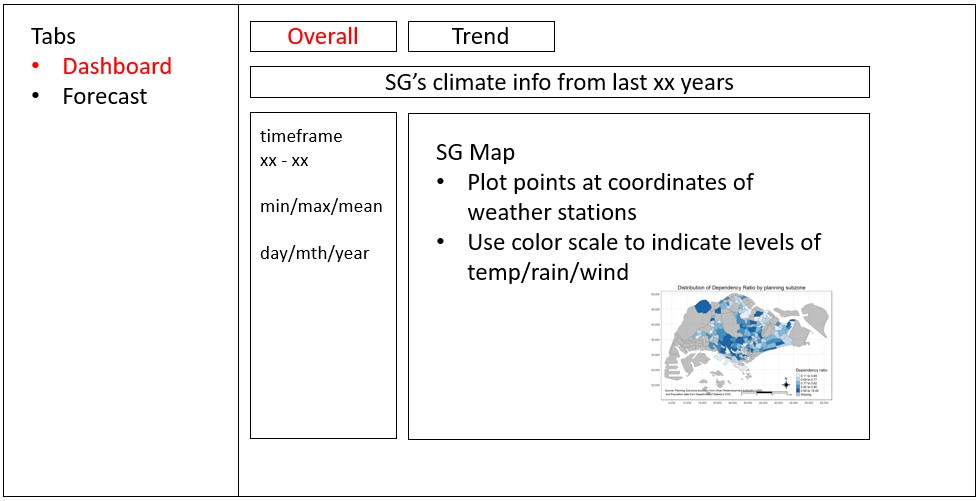
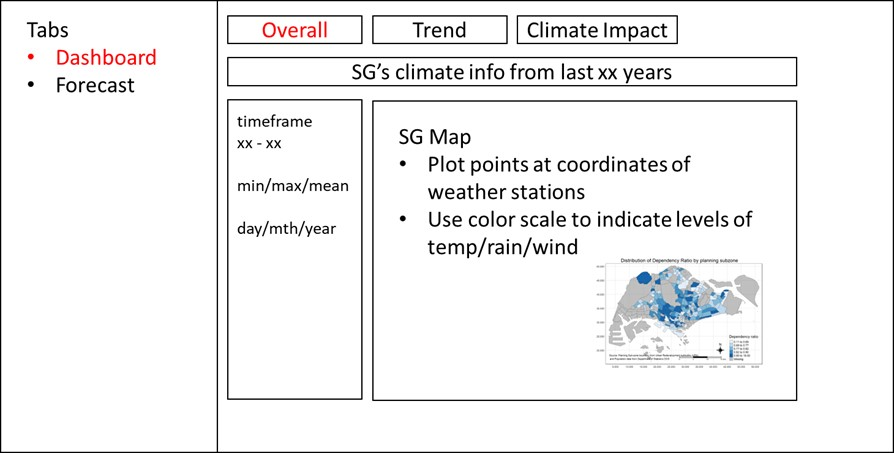
Edited the methodology section, and modified the shinyapp design

Changed region(s): [[0.0, 0.0, 1.0, 1.0]]

diff --git a/_site/Proposal/Proposal.html b/_site/Proposal/Proposal.html
@@ -138,7 +138,7 @@ ul.task-list li input[type="checkbox"] {
     <div>
     <div class="quarto-title-meta-heading">Modified</div>
     <div class="quarto-title-meta-contents">
-      <p class="date-modified">February 9, 2024</p>
+      <p class="date-modified">February 10, 2024</p>
     </div>
   </div>
     
@@ -185,17 +185,34 @@ ul.task-list li input[type="checkbox"] {
 </section>
 <section id="methodology" class="level1">
 <h1>Methodology</h1>
-<section id="eda" class="level2">
-<h2 data-anchor-id="eda">EDA</h2>
-<p>We will be using data visualizations to explore trends in our weather and temperature for the past few decades</p>
+<section id="exploratory-data-analysis-eda" class="level2">
+<h2 data-anchor-id="exploratory-data-analysis-eda">Exploratory Data Analysis (EDA)</h2>
+<p>As a standard procedure of a data analytics project, EDA will be performed to understand the trend and patterns in the data before developing our forecast models.</p>
+<ul>
+<li><p>Understanding the weather time series data (rainfall, temperature, relative humidity and wind) by decomposing them to study their trend, seasonality and stationarity.</p></li>
+<li><p>Geographical analysis to study the differences of weather by region and planning area in Singapore.</p></li>
+<li><p>Correlation analysis to study the association among rainfall, temperature, relative humidity and wind.</p></li>
+<li><p>Correlation analysis to study the association among rainfall, temperature and dengue cases.</p></li>
+</ul>
 </section>
-<section id="forecast" class="level2">
-<h2 data-anchor-id="forecast">Forecast</h2>
-<p>We will be using time-series analysis to forecast weather changes in the near future by regions.</p>
+<section id="forecast-model-development" class="level2">
+<h2 data-anchor-id="forecast-model-development">Forecast Model Development</h2>
+<p>Different time series forecast models will be attempted to compare their performance, which are:</p>
+<ul>
+<li><p><strong>Simple moving average method</strong> which is a part of the simple time series forecast model family. It will act as the reference model to be compared with more advanced models.</p></li>
+<li><p><strong>Holt Winter’s method</strong> which employs exponential smoothing techniques that applies a higher weightage to the more recent data. The underlying assumption here is that the weather in the recent years would be more valuable in forecasting the future weather.</p></li>
+<li><p><strong>Seasonal auto regressive integrated moving average (SARIMA)</strong> which extends auto regressive integrated moving average (ARIMA) methods by adding the seasonality component. The underlying assumption here is that weather exhibits seasonality trend. Thus, SARIMA method would be more suitable for weather forecasting.</p></li>
+</ul>
 </section>
-<section id="cda" class="level2">
-<h2 data-anchor-id="cda">CDA</h2>
-<p>We will be using CDA to evalute our predictions via significance, sensitivity analysis, and confidence.</p>
+<section id="confirmatory-data-analysis-cda" class="level2">
+<h2 data-anchor-id="confirmatory-data-analysis-cda">Confirmatory Data Analysis (CDA)</h2>
+<p>To evaluate the models’ performance and identify the champion model after developing the above-mentioned models, we’ll use the following two commonly used performance metrics:</p>
+<ul>
+<li><p><strong>Root mean squared error (RMSE)</strong> which is the square root of mean squared error (MSE). It measures how far the forecasted values are deviated from the actual measurements.</p>
+<p><img src="Formula - RMSE.png" class="img-fluid"></p></li>
+<li><p><strong>Mean absolute percentage error (MAPE)</strong> which measures the percentage error against the actual measurements. It’s largely adopted because it’s normalized in percentage form, which many people find it easier to interpret and compare among different methods.</p>
+<p><img src="Formula - MAPE.png" class="img-fluid"></p></li>
+</ul>
 </section>
 </section>
 <section id="shinyapp-layout" class="level1">
@@ -209,7 +226,7 @@ ul.task-list li input[type="checkbox"] {
 <h2 data-anchor-id="dashboard">Dashboard</h2>
 <section id="overall" class="level3">
 <h3 data-anchor-id="overall">Overall</h3>
-<p>The dashboard layout is further divided into 3 (or 4) sections; Temperature, Rainfall, Wind (and humidity, which may be a composite factor of temperature and rain).</p>
+<p>The dashboard layout is further divided into 3 (or 4) sections; Temperature, Rainfall, Wind (and relative humidity, which may be a composite factor of temperature and rain).</p>
 <p>We intend for users to be able to filter by multiple levels as indicated below:</p>
 <ul>
 <li><p>By time period – slider bar</p></li>
@@ -225,24 +242,29 @@ ul.task-list li input[type="checkbox"] {
 </section>
 <section id="trend" class="level3">
 <h3 data-anchor-id="trend">Trend</h3>
-<p>To give users a clearer view of changes over time, the Trend tab utilizes a parallel coordinate map that shows temp/rain/wind against time. Here, each line (and color) represents a different weather station. We can also added the vertical histograms that shows the distribution as well as outlier points.</p>
+<p>To give users a clearer view of changes over time, the Trend tab utilizes a parallel coordinate map that shows temp/rain/wind against time. Here, each line (and color) represents a different weather station. We can also added the vertical histograms that shows the distribution as well as the outliers.</p>
 <div class="quarto-figure quarto-figure-center">
 <figure class="figure">
 <p><img src="Dashboard Trend.jpg" class="img-fluid figure-img"></p>
 </figure>
 </div>
 </section>
+<section id="climate-impact" class="level3">
+<h3 data-anchor-id="climate-impact">Climate Impact</h3>
+<p>In this section, the users will be able to visualize the correlation between temp/rain and dengue cases. Those who are in the public health sector can make use of this information to develop better strategies to prevent dengue outbreak.</p>
+<p><img src="Dashboard Climate Impact.jpg" class="img-fluid"></p>
 </section>
-<section id="forecast-1" class="level2">
-<h2 data-anchor-id="forecast-1">Forecast</h2>
+</section>
+<section id="forecast" class="level2">
+<h2 data-anchor-id="forecast">Forecast</h2>
 <p>In the forecast tab, users will be able to run models to predict temp/rain/wind changes.</p>
-<p>Here, we plan to use ARIMA forecasting methods. The user will be able to choose from a selection of parameters before running the model.</p>
+<p>Here, the users will be able to choose from a selection of the models mentioned in the previous section, and define the parameters associated with that model before running the model.</p>
 <div class="quarto-figure quarto-figure-center">
 <figure class="figure">
 <p><img src="Forecast.jpg" class="img-fluid figure-img"></p>
 </figure>
 </div>
-<p>Finally, we will include a tab for CDA to validate our results.</p>
+<p>Finally, we will include a tab for CDA to evaluate the performance of the trained model.</p>
 </section>
 </section>
 <section id="project-management-and-timeline" class="level1">

diff --git a/_site/index.html b/_site/index.html
@@ -226,7 +226,7 @@ Our Works
 </div>
 <div id="listing-sample-listings" class="quarto-listing quarto-listing-container-grid">
 <div class="list grid quarto-listing-cols-3">
-<div class="g-col-1" data-index="0" data-listing-file-modified-sort="1707381723654" data-listing-reading-time-sort="1">
+<div class="g-col-1" data-index="0" data-listing-file-modified-sort="1707546970298" data-listing-reading-time-sort="1">
 <a href="./Poster/Poster.html" class="quarto-grid-link">
 <div class="quarto-grid-item card h-100 card-left">
 <p class="card-img-top"><img src="images\bugcat wip.gif" style="height: 150px;"  class="thumbnail-image card-img"/></p>
@@ -246,7 +246,7 @@ Poster
 </div>
 </a>
 </div>
-<div class="g-col-1" data-index="1" data-listing-date-sort="1707408000000" data-listing-file-modified-sort="1707460107744" data-listing-date-modified-sort="1707460107000" data-listing-reading-time-sort="4">
+<div class="g-col-1" data-index="1" data-listing-date-sort="1707408000000" data-listing-file-modified-sort="1707549204752" data-listing-date-modified-sort="1707549204000" data-listing-reading-time-sort="5">
 <a href="./Proposal/Proposal.html" class="quarto-grid-link">
 <div class="quarto-grid-item card h-100 card-left">
 <p class="card-img-top"><img src="images\Proposal1.jpg" style="height: 150px;"  class="thumbnail-image card-img"/></p>
@@ -269,7 +269,7 @@ Feb 9, 2024
 </div>
 </a>
 </div>
-<div class="g-col-1" data-index="2" data-listing-file-modified-sort="1707381723641" data-listing-reading-time-sort="1">
+<div class="g-col-1" data-index="2" data-listing-file-modified-sort="1707546970304" data-listing-reading-time-sort="1">
 <a href="./Shinyapp/Shinyapp.html" class="quarto-grid-link">
 <div class="quarto-grid-item card h-100 card-left">
 <p class="card-img-top"><img src="images\bugcat wip.gif" style="height: 150px;"  class="thumbnail-image card-img"/></p>
